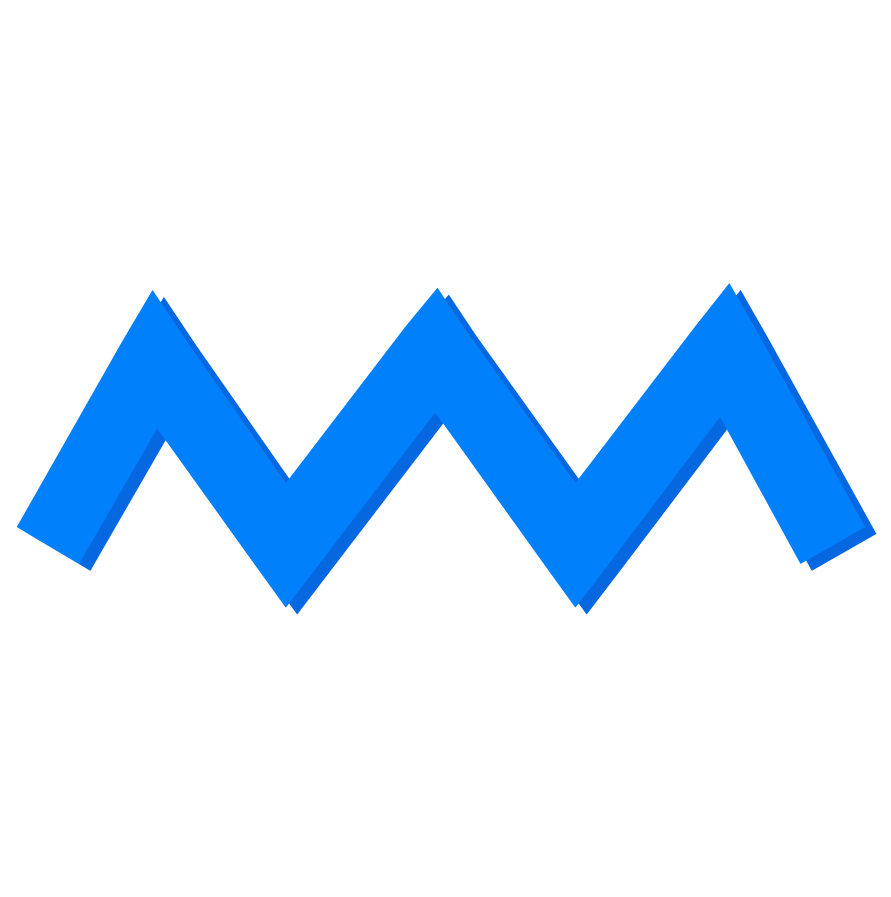
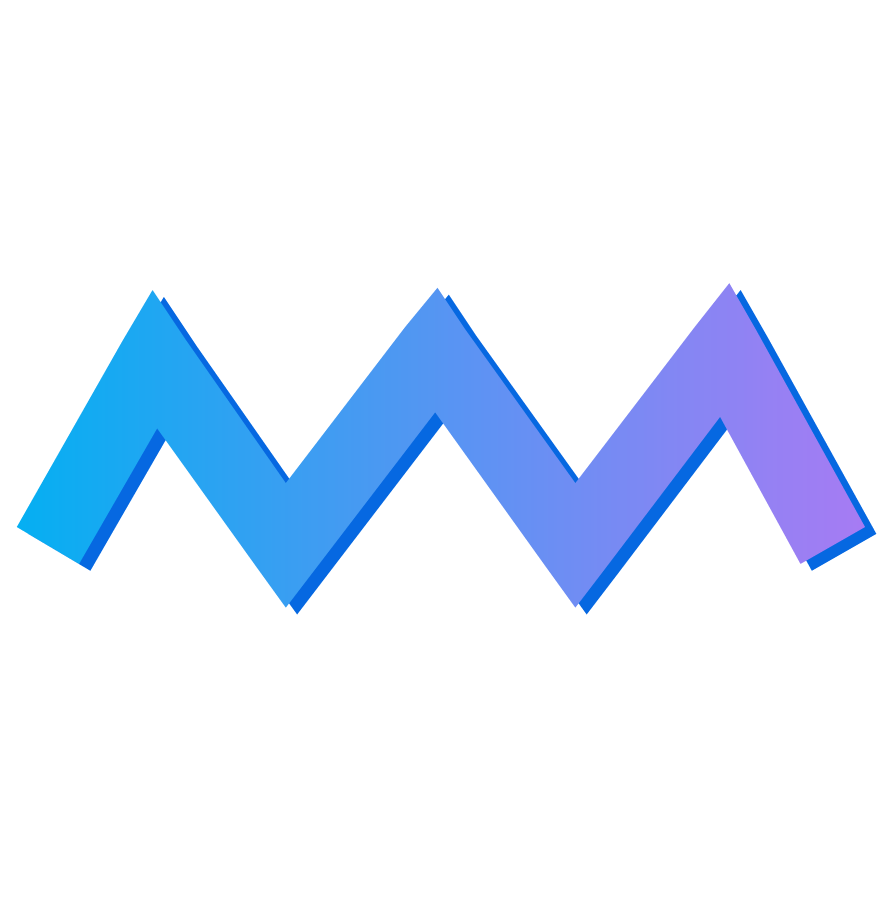
Theme update

Changed region(s): [[0.0, 0.3122, 0.9697, 0.6867]]

diff --git a/src/components/Projects/Project/index.scss b/src/components/Projects/Project/index.scss
@@ -1,11 +1,10 @@
 $text-color: #ccd6f6;
-
+$purple-theme: #A77BF3;
 .project {
 	// position: relative;
 	max-width: 1000px;
 	width: 100%;
 	margin: auto;
-	margin-top: 10rem;
 	display: grid;
 	grid-template-columns: repeat(12, 1fr);
 	// grid-template-columns: 1fr 1fr;
@@ -13,18 +12,19 @@ $text-color: #ccd6f6;
 	.project-image {
 		position: relative;
 		z-index: 1;
-		border: 1px solid #05AFF2;
-		background-color: #05AFF2;
+		border: 1px solid #5f4ca3;
+		background-color: #93f5ec;
+		// background: linear-gradient(45deg, #93f5ec 20%, #a77bf3 70%);	
 		grid-area: 1 / 6 / -1 / -1;
 		border-radius: 10px;
 		overflow: hidden;
 		mix-blend-mode: screen;
-		transition: all 1s;
+		transition: all 2s;
 
 		&:hover {
 			mix-blend-mode: normal;
 			border: none;
-			background-color: transparent;
+			background: transparent;
 		}
 
 		// grid-column: 1 / 8;
@@ -56,7 +56,10 @@ $text-color: #ccd6f6;
 			a {
 				display: block;
 				margin-bottom: 2rem;
-				color: #05AFF2;
+				background: linear-gradient(300deg, #93f5ec 20%, #a77bf3 70%);
+				background-clip: text;
+				-webkit-background-clip: text;
+				color: transparent;
 				font-size: clamp(2rem, 2vw, 4rem);
 				font-weight: bold;
 				text-decoration: none;
@@ -65,11 +68,11 @@ $text-color: #ccd6f6;
 
 		.project-description {
 			// margin-top: 2rem;
-			box-shadow: 0 10px 20px -15px rgba(2, 12, 27, .7);
+			box-shadow: 0 10px 20px -15px rgba(147, 245, 235, 0.034);
 			transition: all .3s;
 			// width: 80%;
 			border-radius: 5px;
-			background-color: #0b2458;
+			background-color: #24292F;
 			padding: 25px;
 
 			p {
@@ -79,7 +82,7 @@ $text-color: #ccd6f6;
 			}
 
 			&:hover {
-				box-shadow: 0 20px 20px -15px rgba(2, 12, 27, .7);
+				box-shadow: 0 20px 20px -15px rgba(147, 245, 235, 0.116);
 			}
 		}
 
@@ -116,10 +119,10 @@ $text-color: #ccd6f6;
 			height: 100%;
 			max-width: 700px;
 			grid-area: 1 / 1 / -1/ -1;
-			background-color: #0b2458;
+			background-color: #2e2a3f;
 
 			img {
-				filter: none;
+				filter: grayscale(50%);
 				aspect-ratio: unset;
 			}
 		}
@@ -137,6 +140,7 @@ $text-color: #ccd6f6;
 			.project-title {
 				margin: 0;
 				a{
+				color: white;
 					&::before{
 						content: "";
 						z-index: 5;

diff --git a/src/App.scss b/src/App.scss
@@ -1,10 +1,10 @@
 
 body{
-  background-color: #081A40;
+  background-color: #1b1f24;
   color: white;
   box-sizing: border-box;
   font: 300 11px/1.4 'Helvetica Neue', sans-serif;
-  // overflow-x: hidden;
+  overflow-x: hidden;
 }
 
 .App-logo {
@@ -16,15 +16,16 @@ body{
     font-size: 1.7rem;
     color: #8892b0;
 }
-.show{
+.show {
   transform: none;
   opacity: 1;
-  transition: all 1s;
+  transition: all .5s ease-in;
   // animation: slideInUp 2s ease;
 }
-.hidden{
+
+.hidden {
   transform: translate(0, 100px);
   opacity: 0;
-  transition: all 1s;
+  transition: all .5s;
   // animation: slideOutDown 2s ease;
 }

diff --git a/src/components/Projects/Project/index.js b/src/components/Projects/Project/index.js
@@ -1,9 +1,9 @@
 import { useInView } from 'react-intersection-observer';
 import './index.scss'
 const Project = ({ img, name, url, description, tools }) => {
-	const [ref, inView, entry] = useInView();
+	const [ref, inView, entry] = useInView({ threshold: .1, triggerOnce: true });
 	return (
-		<li ref={ref} className="project">
+		<li ref={ref} className={inView ? "project show-project-animation" : "project hide-project-animation"}>
 			<div className="project-content">
 				<h3 className='project-title'>
 					<a href={url} target="_blank">{name}</a>

diff --git a/src/components/Navbar/index.scss b/src/components/Navbar/index.scss
@@ -72,7 +72,7 @@ $text-color: rgb(228, 227, 227);
     }
 
     &:hover {
-      color: #05AFF2;
+      color: #A77BF3;
     }
   }
 }
@@ -183,7 +183,8 @@ $text-color: rgb(228, 227, 227);
       right: 0;
       top: 0;
       display: block;
-      background-color: #010e26;
+      background-color: rgba(0, 0, 0, 0.548);
+      backdrop-filter: blur(10px);
       height: 100vh ;
 
       nav {

diff --git a/src/components/Projects/index.scss b/src/components/Projects/index.scss
@@ -5,8 +5,20 @@
 	max-width: 1600px;
 	min-height: 100vh;
 	ul{
+		margin: 0;
 		padding: 0;
 	}
+		.show-project-animation {
+			opacity: 1;
+			transform: translateY(0);
+			transition: all .5s ease-in;
+		}
+	
+		.hide-project-animation {
+			opacity: 0;
+			transform: translateY(20%);
+			transition: all .5s;
+		}
 }
 @media only screen and (max-width: 1200px){
 	.projects-section{

diff --git a/src/components/Hero/index.scss b/src/components/Hero/index.scss
@@ -3,7 +3,7 @@
   line-height: 8rem;
   max-width: 1600px;
   margin: auto;
-
+  color: white;
   h1 {
     font-size: clamp(1rem, 6vw, 11rem);
     margin: 0;
@@ -37,6 +37,7 @@ p.slideInUp {
 @media only screen and (max-width: 1200px) {
   .hero {
     height: 100vh;
+
     .text-zone {
       padding: 3rem;
       padding-bottom: 1rem;

diff --git a/src/components/Contact/index.scss b/src/components/Contact/index.scss
@@ -12,13 +12,13 @@
 	a{
 		cursor: pointer;
 		text-decoration: none;
-		color: #05AFF2;
-		border: #05AFF2 solid 1px;
+		color: #A77BF3;
+		border: #A77BF3 solid 1px;
 		border-radius: 7px;
 		padding: 1vw;
 		font-size: clamp(1rem, 1.5rem, 3rem);
 		&:hover{
-			background-color: #05aff23e;
+			background-color: #93f5eb25;
 		}
 	}
 }

diff --git a/src/components/Leftside/index.scss b/src/components/Leftside/index.scss
@@ -22,7 +22,7 @@
                 color: #8892b0;
                 transition: all .3s ease;
                 &:hover{
-                    color: #05AFF2;
+                    color: #A77BF3;
                     transform: translate(0,-.5rem);
                 }
             }

diff --git a/src/components/About/index.scss b/src/components/About/index.scss
@@ -17,8 +17,8 @@
         li{
           font-size: clamp(1rem, 1.5rem, 2rem);
           &::marker{
-            color: #05AFF2;
-            
+            color: #9e69fa;
+            font-size: 2rem;
           }
         }
       }

diff --git a/src/components/Rightside/index.scss b/src/components/Rightside/index.scss
@@ -20,7 +20,7 @@
             transition: all .3s ease-out;
             &:hover{
                 transform: translate(0, -.5rem);
-                color: #05AFF2;  
+                color: #A77BF3;  
             }
         }
     }

diff --git a/src/components/Hero/index.js b/src/components/Hero/index.js
@@ -1,4 +1,4 @@
-import { useEffect, useState } from 'react';
+  import { useEffect, useState } from 'react';
 import AnimatedLetters from '../AnimatedLetters'
 import './index.scss'
 

diff --git a/src/components/AnimatedLetters/index.scss b/src/components/AnimatedLetters/index.scss
@@ -11,7 +11,8 @@
     
 }
 .blast:hover{
-    color: #05AFF2;
+    color: #A77BF3;
+    
 }
 .animated{
     animation-duration: 1s;
